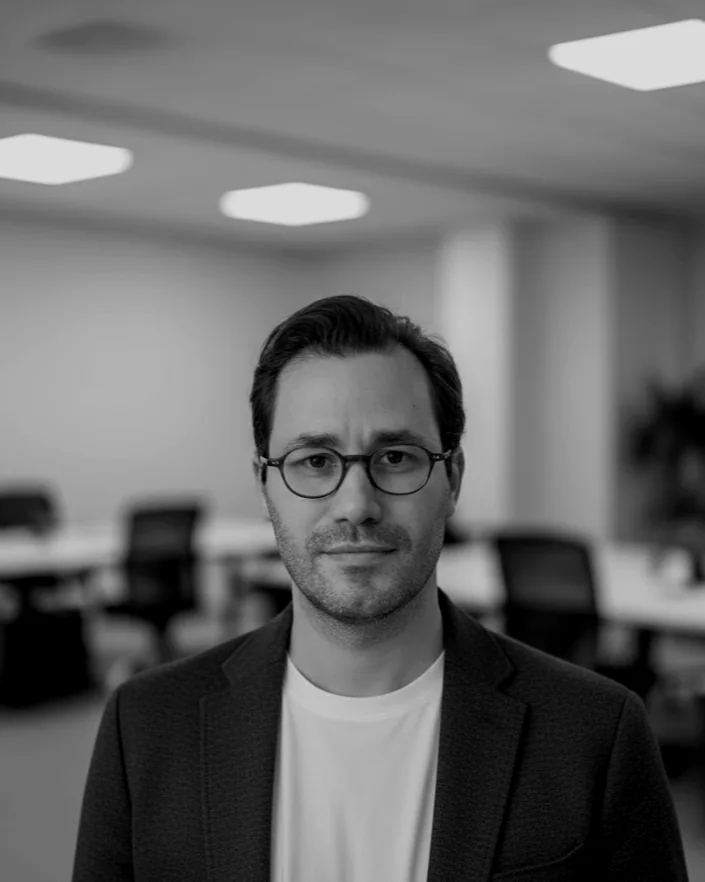
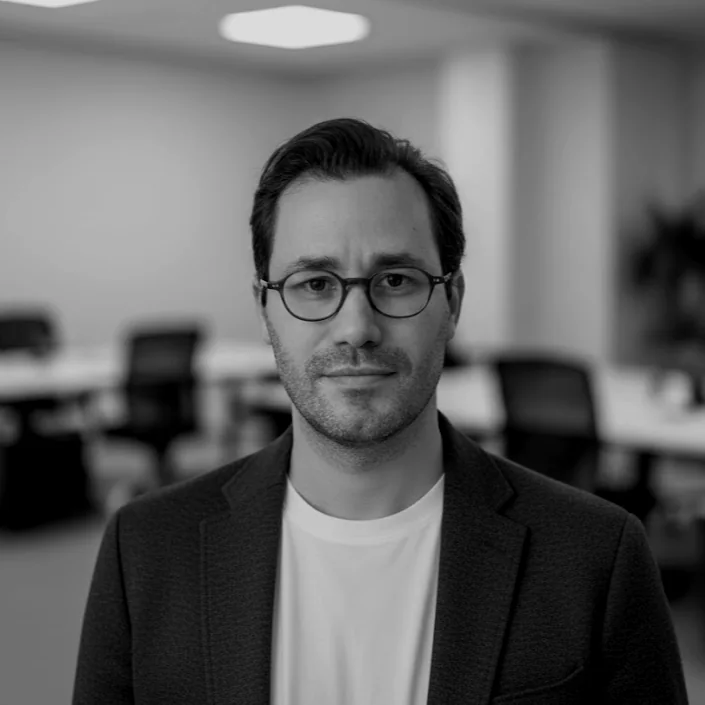
Hakkımda: portre kare kırpıldı, üstteki boşluk alındı
Claude-Session: https://claude.ai/code/session_017AadGr48oHa7dSXtzpLv4U

diff --git a/index.html b/index.html
@@ -81,7 +81,7 @@
   .about { border-top: 1px solid var(--line); padding: 40px 0 96px; display: flex; flex-wrap: wrap; gap: 32px; }
   .about .label { flex: 1 1 200px; font-family: var(--mono); font-size: 13px; letter-spacing: .06em; text-transform: uppercase; color: var(--muted); }
   .about .body { flex: 999 1 560px; min-width: 0; display: flex; flex-wrap: wrap; gap: 40px; align-items: flex-start; }
-  .about .portrait { flex: 0 1 300px; margin: 0; aspect-ratio: 4 / 5; background: var(--surface); border: 1px solid var(--line); border-radius: 4px; overflow: hidden; }
+  .about .portrait { flex: 0 1 320px; margin: 0; aspect-ratio: 1; background: var(--surface); border: 1px solid var(--line); border-radius: 4px; overflow: hidden; }
   .about .portrait img { width: 100%; height: 100%; object-fit: cover; display: block; }
   .about .text { flex: 1 1 320px; max-width: 62ch; }
   .about .text p { margin: 0 0 1.1em; font-size: 18px; line-height: 1.65; }
